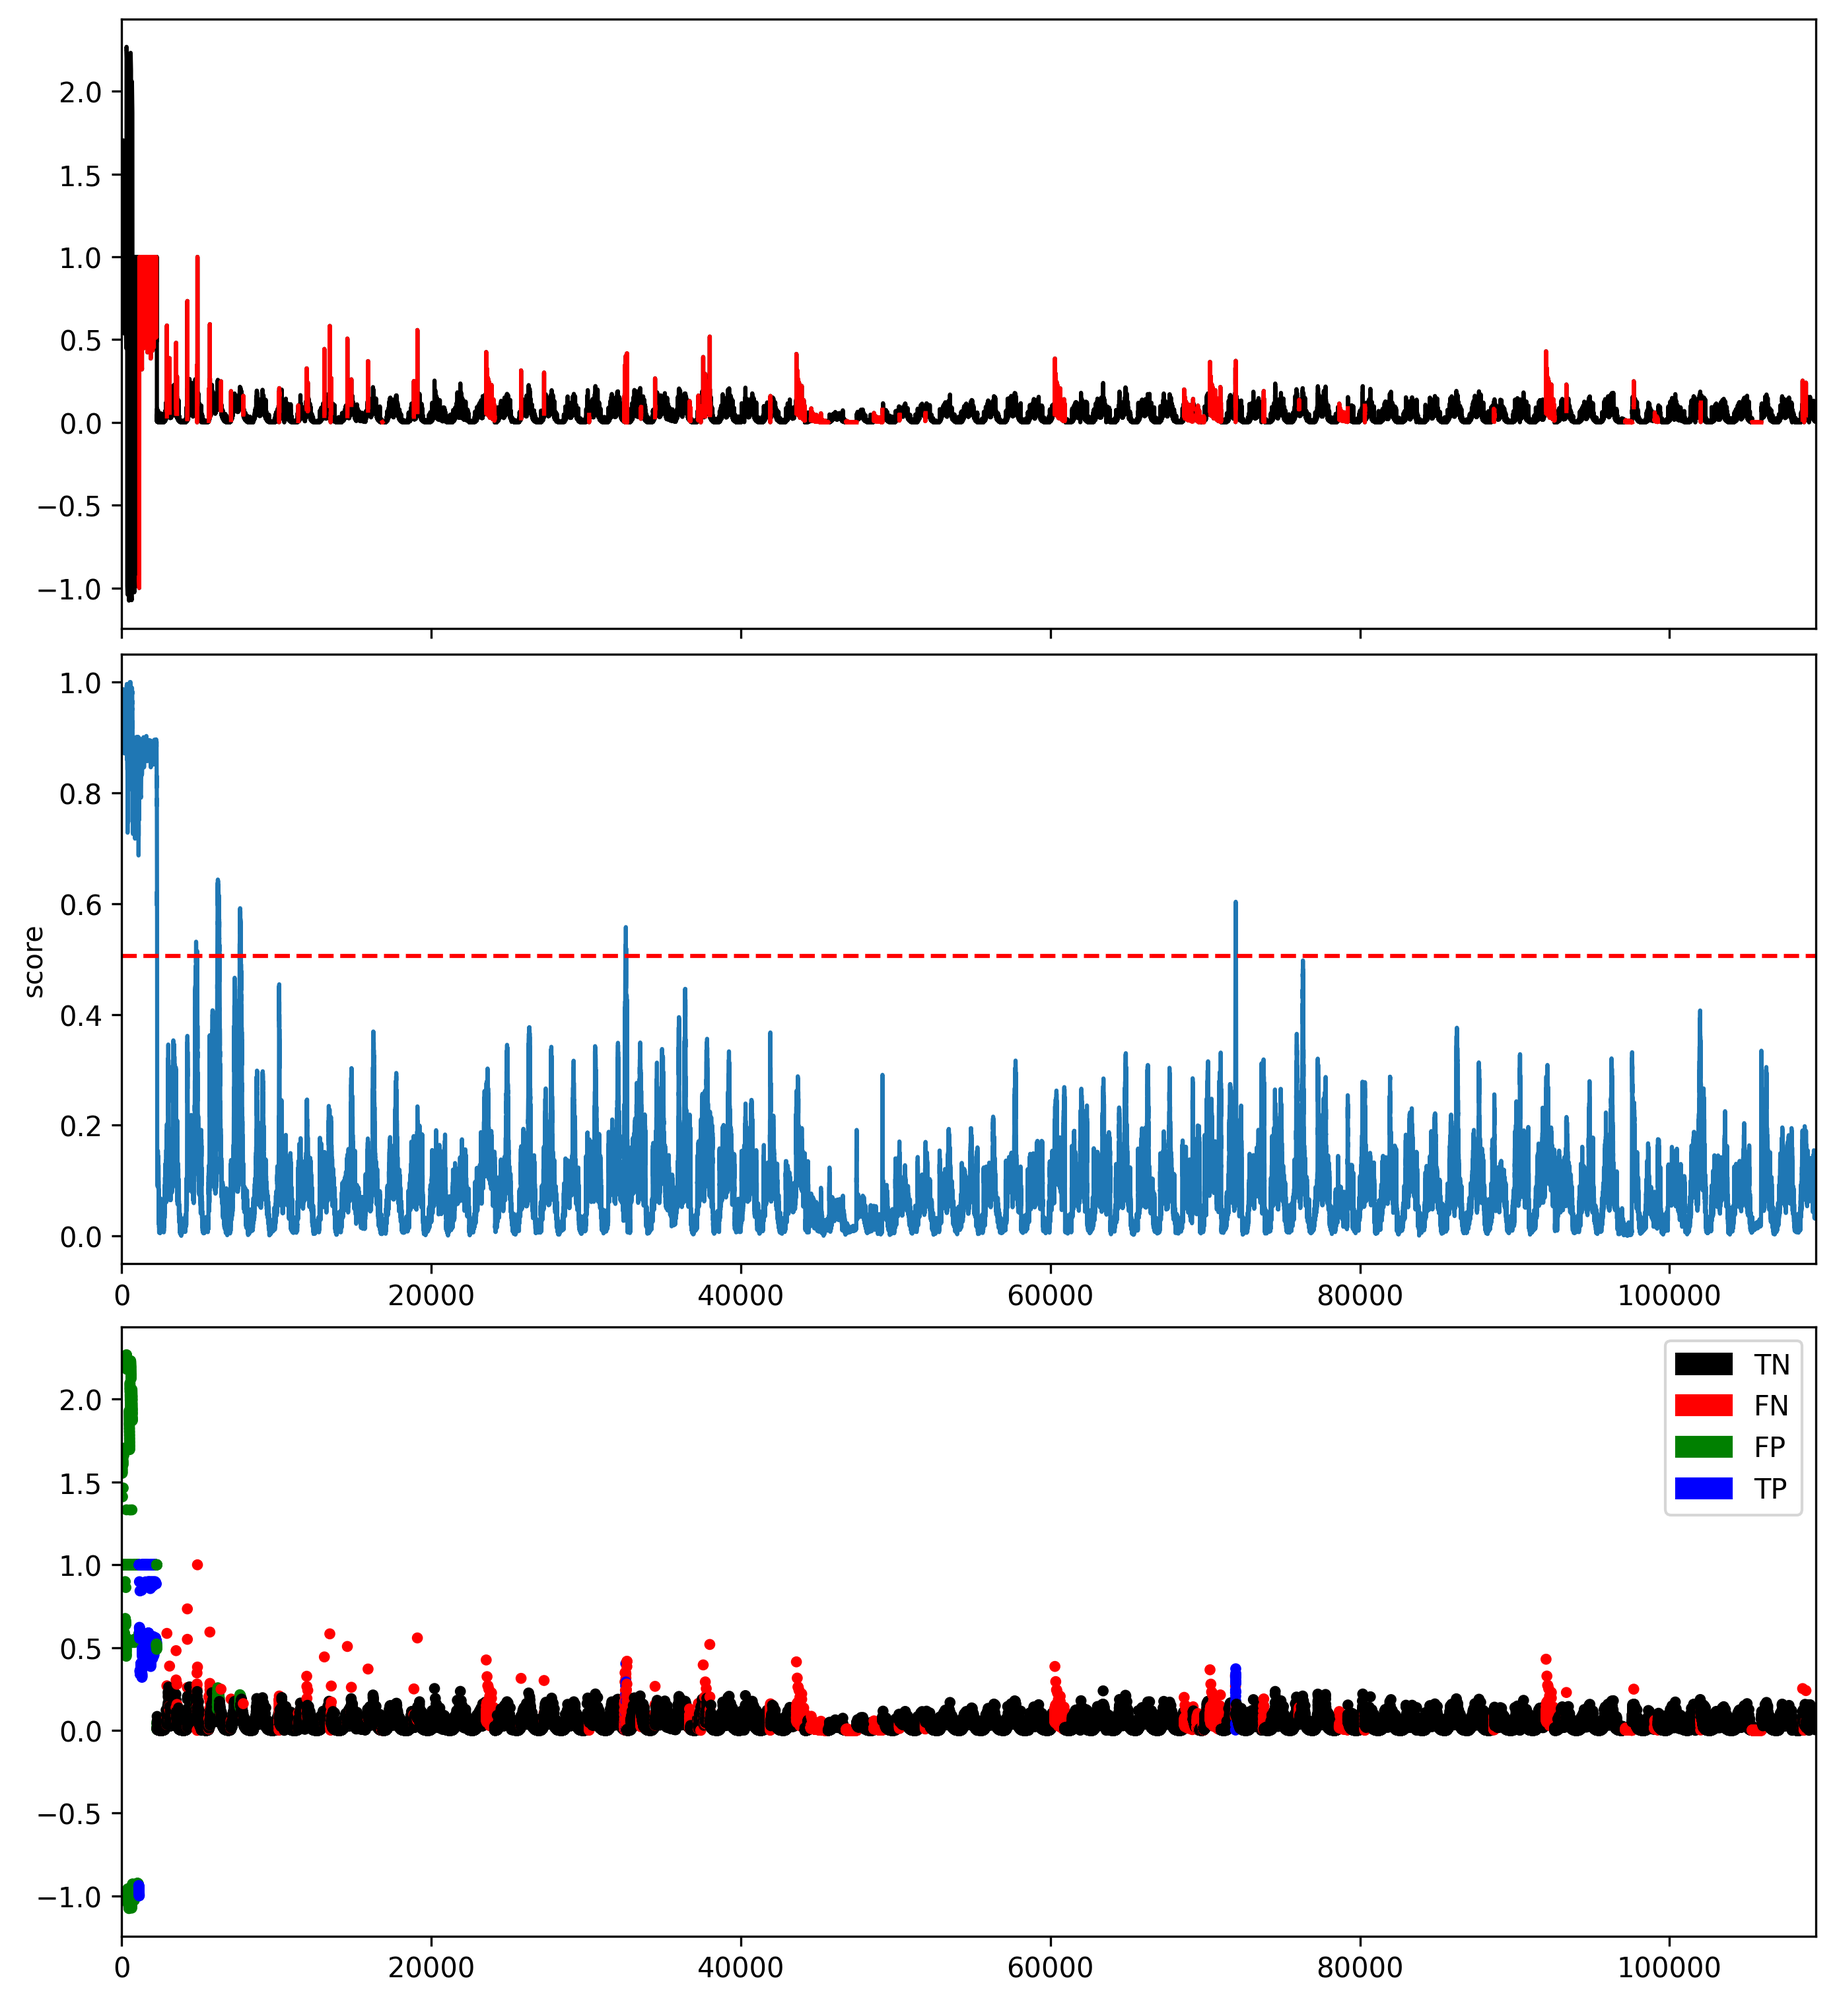
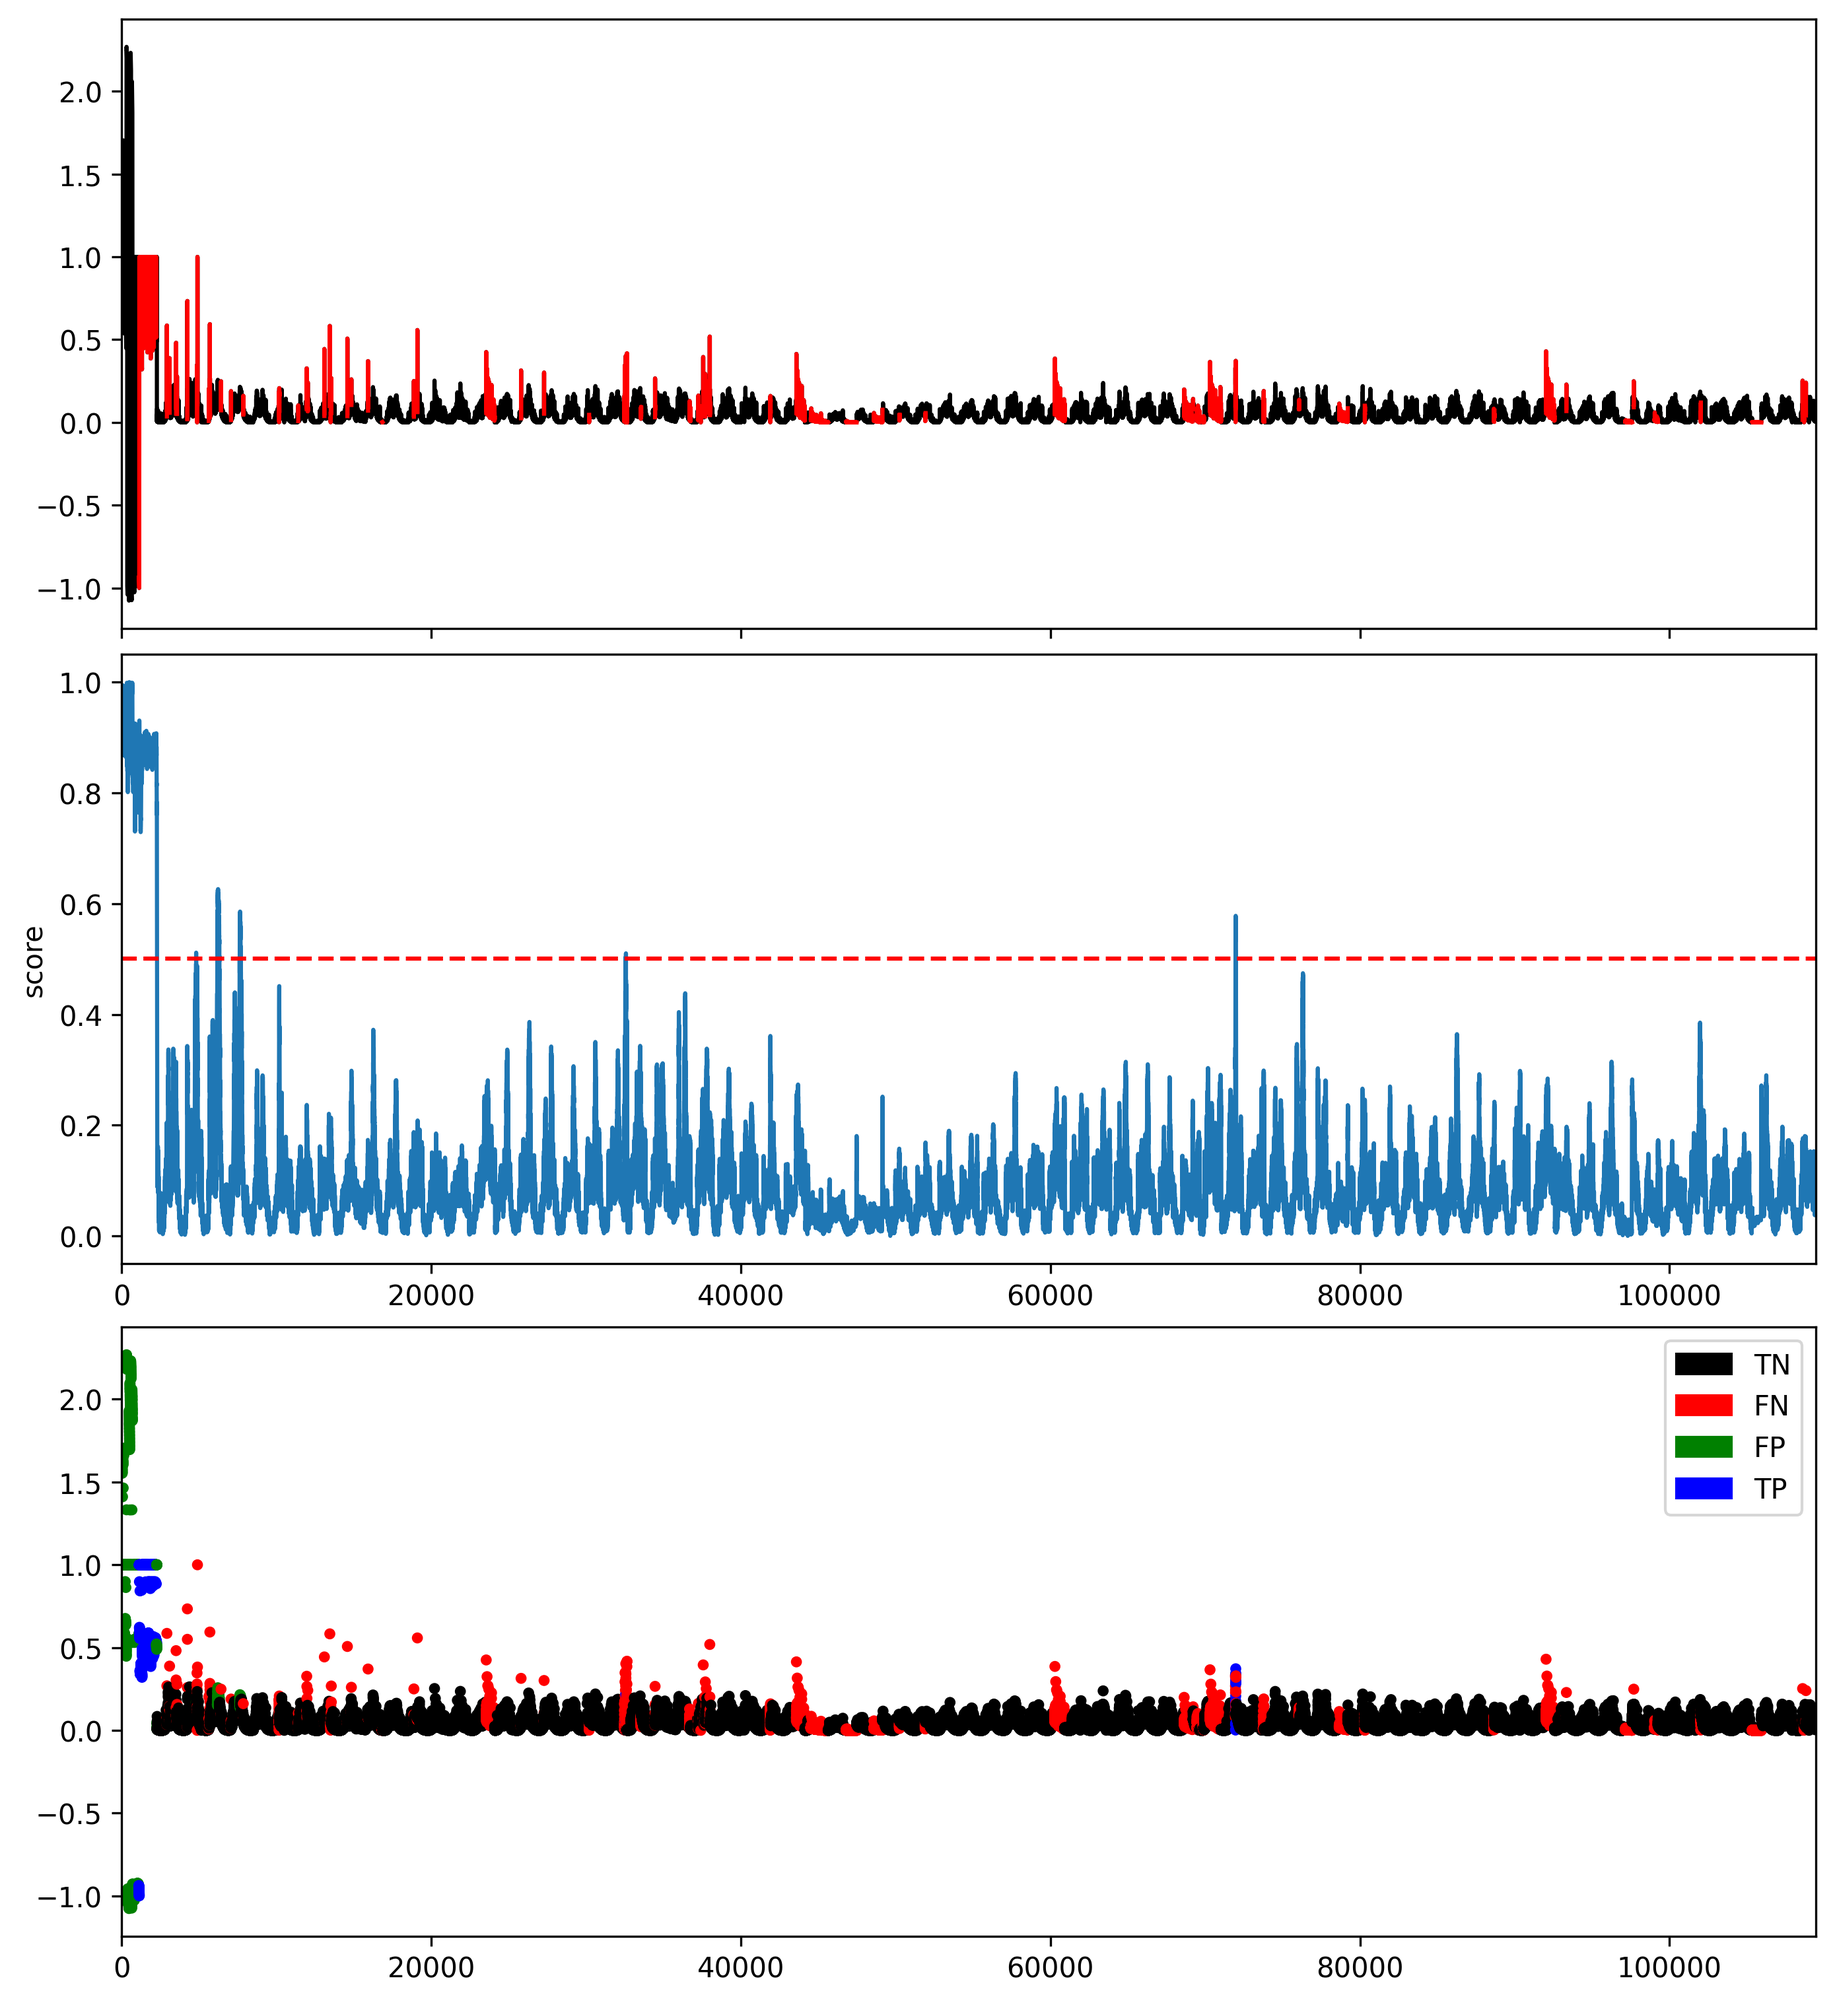
One god knows what I'm doing

diff --git a/StreamingBatchIForest.py b/StreamingBatchIForest.py
@@ -1,0 +1,163 @@
+import os
+import numpy as np
+import pandas as pd
+import matplotlib.pyplot as plt
+import math
+from sklearn.preprocessing import MinMaxScaler
+from sklearn.cluster import KMeans
+from sklearn.metrics import pairwise_distances
+from TSB_UAD.utils.visualisation import plotFig
+from TSB_UAD.utils.slidingWindows import find_length
+from TSB_UAD.models.iforest import IForest
+from tabpfn import TabPFNClassifier
+from tabpfn_extensions.embedding import TabPFNEmbedding
+
+
+class StreamingBatchIForest:
+    def __init__(self,
+                 batch_frac=0.1,
+                 window_length=None,
+                 overlap=10,
+                 n_clusters=4,
+                 state_size=None,
+                 random_state=42,
+                 tabpfn_device='cpu'):
+        self.batch_frac = batch_frac
+        self.window_length = window_length
+        self.overlap = overlap
+        self.n_clusters = n_clusters
+        self.random_state = random_state
+        self.state_size = state_size
+        self.state_subseq = []  # [(timestamp, subseq)]
+        self.tabpfn = TabPFNClassifier(n_estimators=1, random_state=42, device=tabpfn_device)
+
+    def split_batches(self, series):
+        N = len(series)
+        B = int(math.floor(self.batch_frac * N))
+        if self.state_size is None:
+            self.state_size = B
+        indices = list(range(0, N, B)) + [N]
+        return [series[indices[i]:indices[i+1]] for i in range(len(indices)-1)]
+
+    def extract_subsequences(self, batch, t0=0):
+        L = self.window_length or find_length(batch)
+        step = self.overlap
+        subseqs, timestamps = [], []
+        for start in range(0, len(batch)-L+1, step):
+            subseqs.append(batch[start:start+L])
+            timestamps.append(t0 + start + L//2)
+        return np.array(subseqs), np.array(timestamps)
+
+    def embed(self, subseqs):
+        X_train = np.array(subseqs)
+        X_train = X_train[:, :-1]
+        y_train = X_train[:, -1]   
+        embedding_extractor = TabPFNEmbedding(
+            tabpfn_clf=self.tabpfn,
+            n_fold=0
+        )
+        embeddings = embedding_extractor.get_embeddings(
+            X_train=X_train,
+            y_train=y_train,
+            X_test=None,
+            data_source="train",
+        )
+        return embeddings
+
+
+    def update_state(self, new_items):
+        self.state_subseq.extend(new_items)
+
+        if len(self.state_subseq) > self.state_size:
+            # Perform probabilistic sampling, giving higher weight to recent subsequences
+            times = np.array([t for t, _ in self.state_subseq], dtype=float)
+            probs = times - times.min() + 1e-6  # Ensure positivity
+            probs /= probs.sum()
+
+            idx_keep = np.random.choice(
+                len(self.state_subseq),
+                size=self.state_size,
+                replace=False,
+                p=probs
+            )
+            self.state_subseq = [self.state_subseq[i] for i in idx_keep]
+
+
+    def process(self, series):
+        all_scores, offset = [], 0
+
+        for batch in self.split_batches(series):
+            # Extract new subsequences
+            subseqs, times = self.extract_subsequences(batch, t0=offset)
+
+            # Combine with retained state
+            combined = self.state_subseq + list(zip(times.tolist(), subseqs))
+            combined_times = np.array([t for t, _ in combined])
+            combined_seqs  = np.stack([s for _, s in combined])
+
+            # Embed subsequences and preserve mapping to original subsequences
+            embeddings = self.embed(combined_seqs)
+            embedding_pairs = list(zip(embeddings, combined_seqs))
+
+            # Cluster with KMeans on normalized embeddings (equivalent to cosine k-means)
+            labels = KMeans(
+                n_clusters=self.n_clusters,
+                random_state=self.random_state
+            ).fit_predict(embeddings)
+            # Cluster embeddings
+            labels = KMeans(
+                n_clusters=self.n_clusters,
+                random_state=self.random_state
+            ).fit_predict(embeddings)
+
+            # Per-cluster IForest
+            cluster_scores = np.zeros(len(subseqs))
+            sizes, ages = {}, {}
+            for c in range(self.n_clusters):
+                idx = np.where(labels == c)[0]
+                sizes[c] = len(idx)
+                ages[c]  = np.median(combined_times[idx])
+
+                # Fit IForest on all subsequences in this cluster
+                subseqs_cluster = np.stack([embedding_pairs[idx][1]])
+                clf = IForest(n_jobs=1)
+                clf.fit(subseqs_cluster)
+                
+                # Get decision scores for all the subsequence of the current batch
+                sc_all = MinMaxScaler().fit_transform(
+                    clf.decision_function(subseqs).reshape(-1,1)
+                ).ravel()
+
+                cluster_scores[idx] = sc_all
+
+            # Map subseq scores back to the batch's time points
+            L = self.window_length or find_length(batch)
+            point_scores = np.zeros(len(batch))
+            weights = {c: sizes[c] * ages[c] for c in sizes}
+            weight_sums = np.zeros(len(batch))
+
+            base = len(self.state_subseq)  # new subsequences start from this index
+
+            for j, t in enumerate(times):
+                c = labels[base + j]
+                start = max(0, int((t - offset) - L // 2))
+                end = min(len(batch), start + L)
+                weight = weights[c]
+
+                # Spread the weighted score over the data points in the subsequence
+                point_scores[start:end] += cluster_scores[base + j] * weight
+                weight_sums[start:end] += weight
+
+            # Normalize by accumulated weight per point to get final anomaly score per point
+            point_scores = np.divide(
+                point_scores,
+                weight_sums,
+                out=np.zeros_like(point_scores),
+                where=weight_sums != 0
+            )
+
+            # Update state and offset
+            self.update_state(list(zip(times.tolist(), subseqs)))
+            offset += len(batch)
+
+        return np.concatenate(all_scores)

diff --git a/ad.py b/ad.py
@@ -10,6 +10,7 @@ from TSB_UAD.models.feature import Window
 from TSB_UAD.models.iforest import IForest
 from TSB_UAD.models.sand import SAND
 from TSB_UAD.models.matrix_profile import MatrixProfile
+from StreamingBatchIForest import StreamingBatchIForest
 
 public_root = "./data/"
 selected_domains = ['NASA-MSL', 'IOPS', 'Genesis', 'YAHOO']
@@ -125,3 +126,20 @@ score = clf.decision_scores_
 score = MinMaxScaler(feature_range=(0,1)).fit_transform(score.reshape(-1,1)).ravel()
 plotFig(data, label, score, slidingWindow, fileName="Norm-"+str(norm)+"-"+modelName, modelName=modelName)
 plt.savefig("Norm-"+str(norm)+"-"+modelName, dpi=300, bbox_inches='tight')
+
+
+### Online 2 - IForest
+sb_if = StreamingBatchIForest(
+    batch_frac=0.1,
+    overlap=10,
+    n_clusters=4,
+    state_size=None,       
+    tabpfn_device='cpu'
+)
+scores = sb_if.process(data)
+
+# Plot results
+sliding = find_length(data)
+plotFig(data, label, scores, sliding,
+        fileName='Stream_IForest', modelName='StreamIForest')
+plt.savefig('Stream_IForest.png', dpi=300, bbox_inches='tight')
